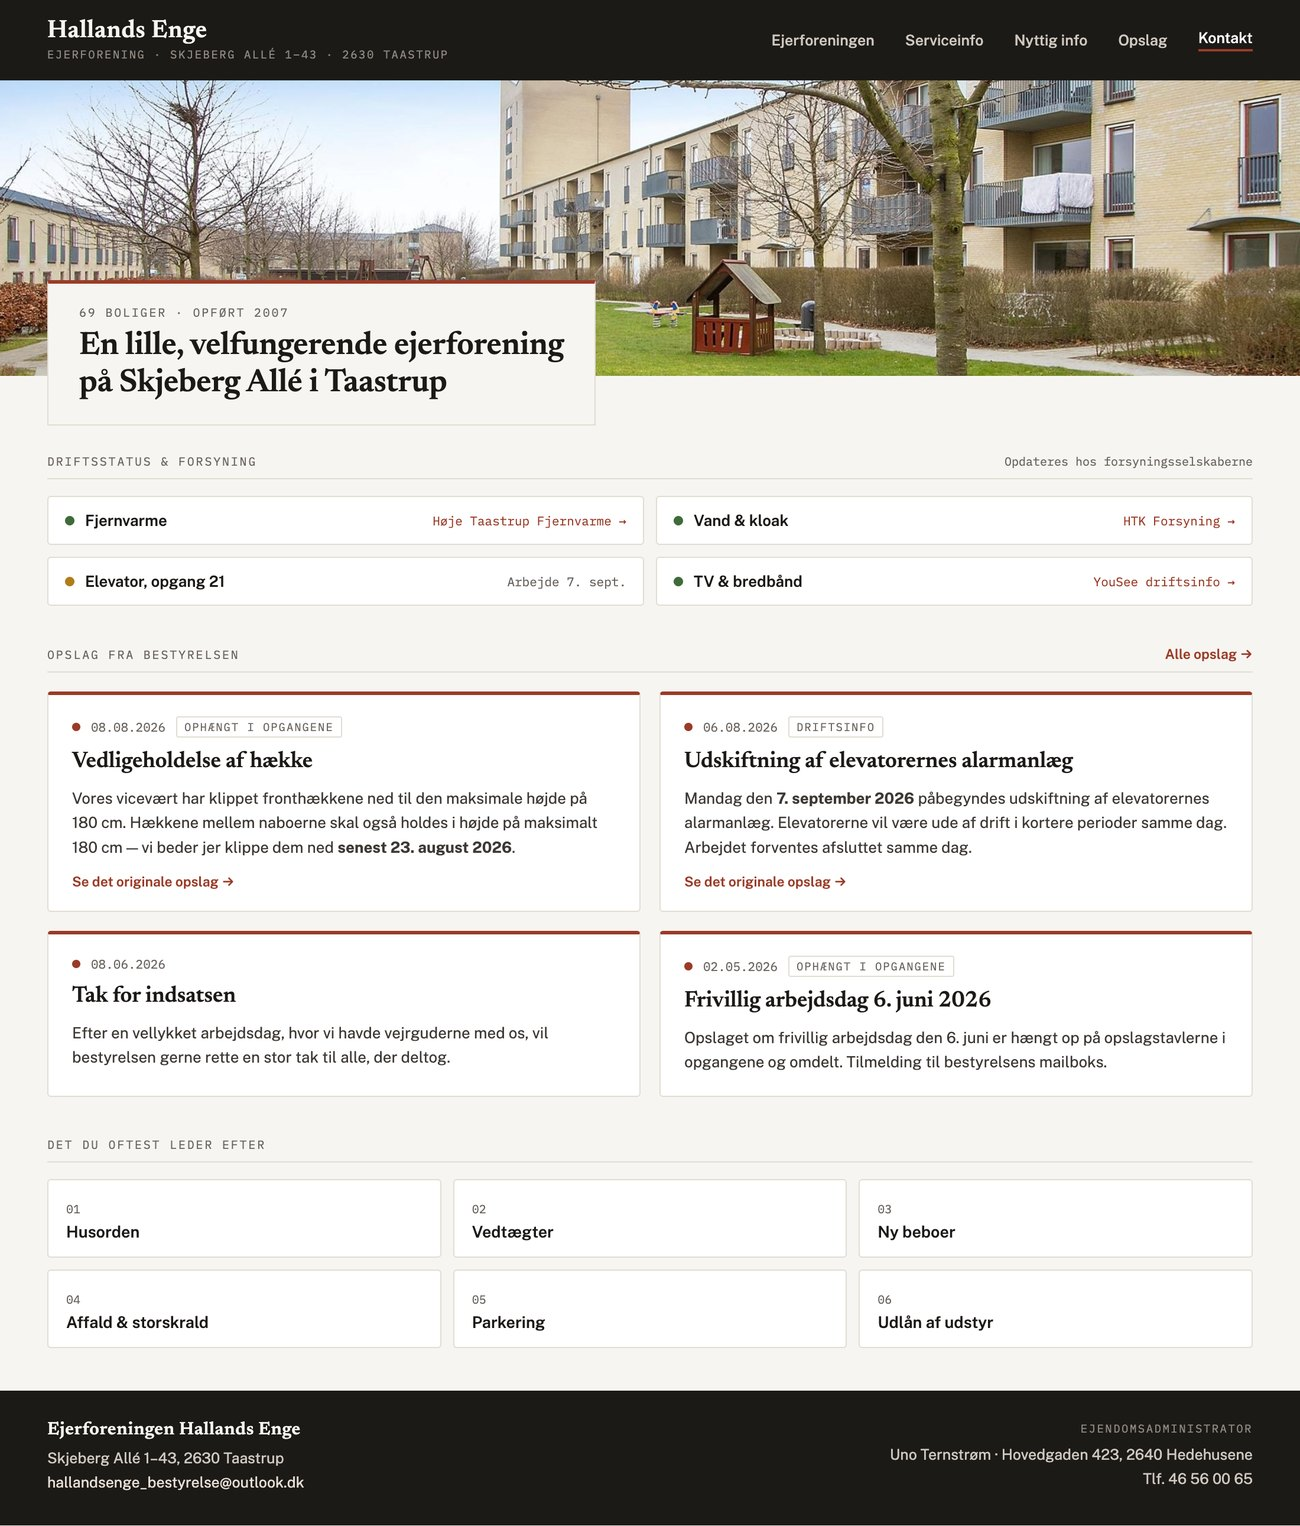
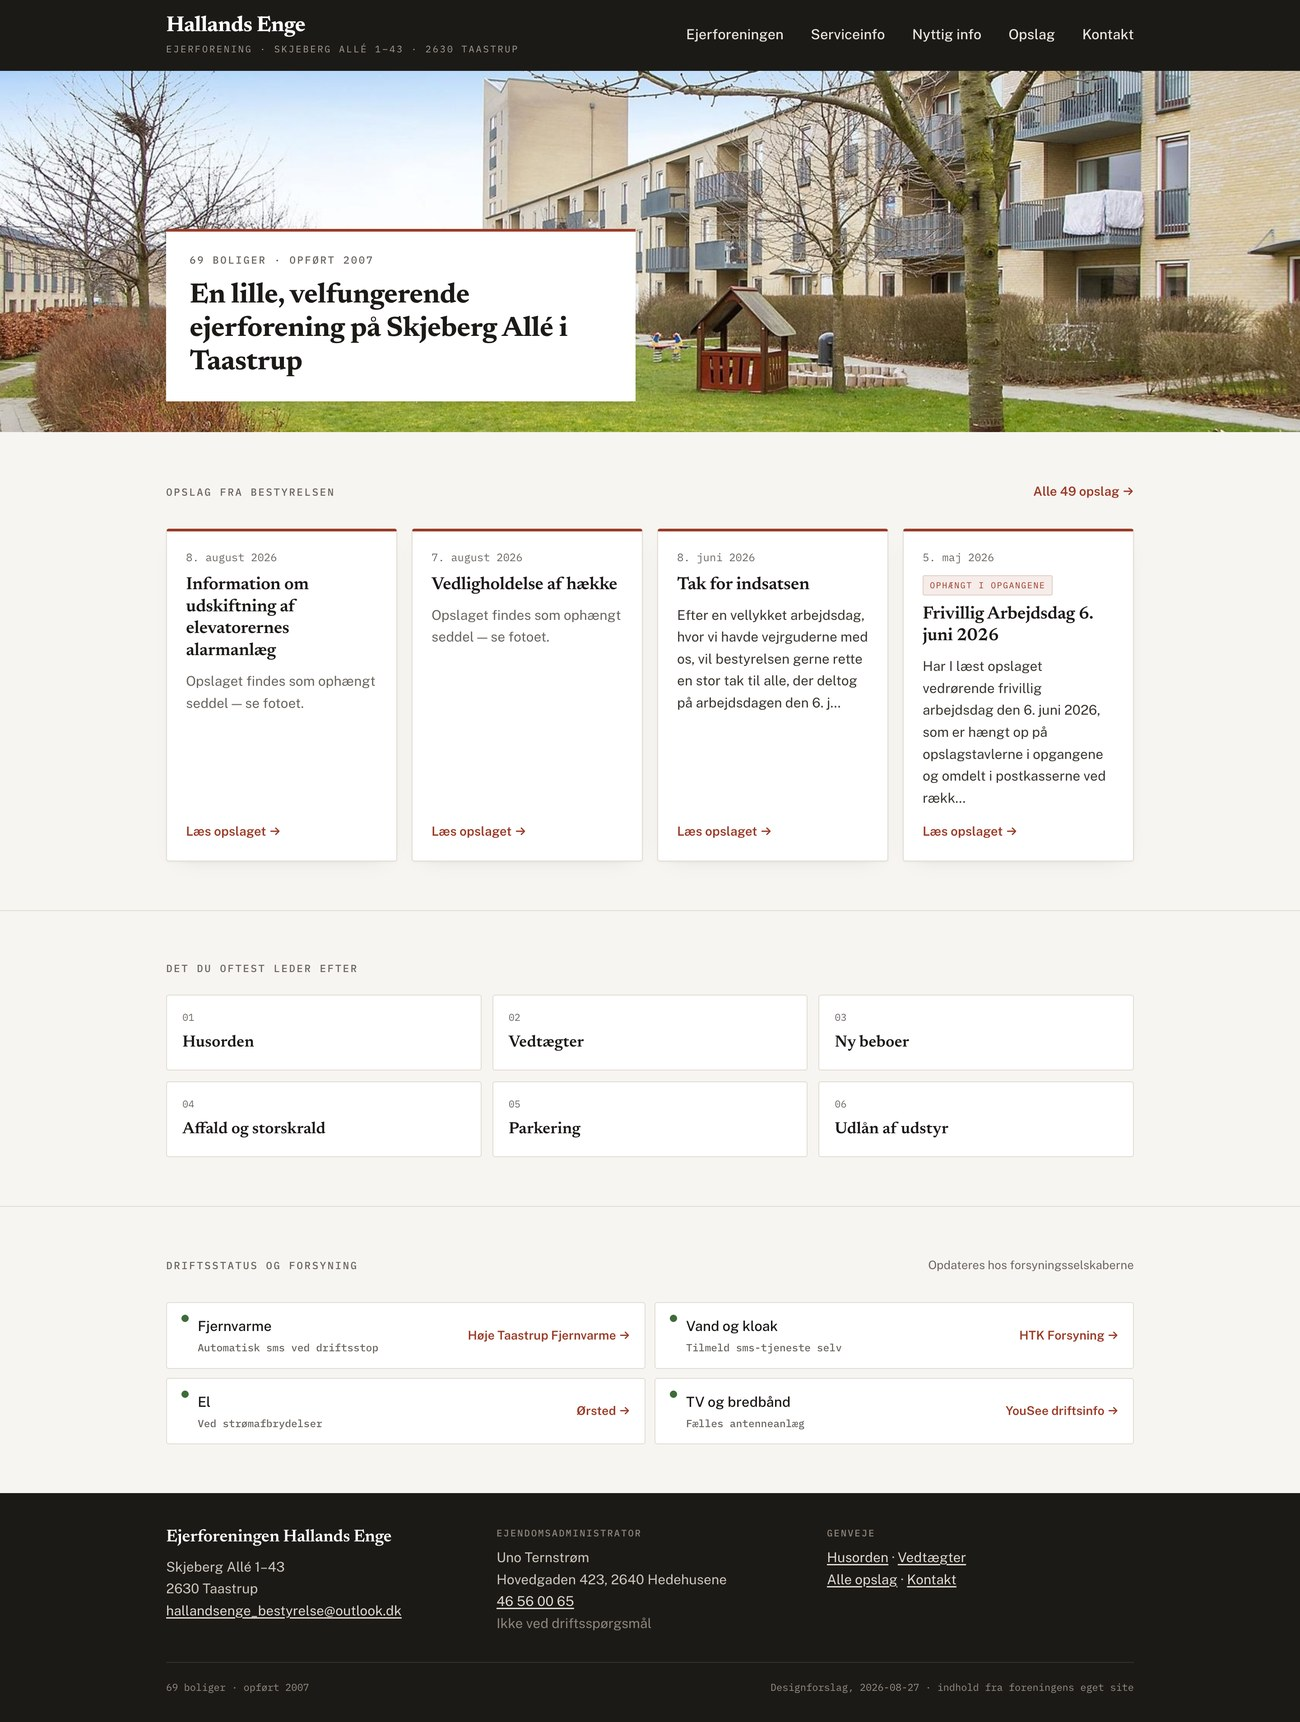
Hallands Enge: drop the price, show what is actually built
The association is my own, so the work is free. Removes the 10.000 kr.
and the cold-outreach sign-off from the case page.

Replaces the six after-* images. They came from the Claude Design canvas
and no longer matched the built site: the supply strip moved to the bottom
of the front page, and the contact form became a mailbox card.

Captured from the built redesign at 1440x900 desktop and a real iPhone 13
profile, full page, resized to the existing 1300px / 720px convention.

Claude-Session: https://claude.ai/code/session_01NASWkHnFqBSAbJMZ6hc1vs

diff --git a/p/hallands-enge-859b3613-a431-49eb-845d-2f224ed24e89/index.html b/p/hallands-enge-859b3613-a431-49eb-845d-2f224ed24e89/index.html
@@ -229,7 +229,7 @@ title: "Hallands Enge: sådan kunne foreningens hjemmeside se ud"
           <li><strong>Testadresse.</strong> Jeg bygger det færdige site på en lukket adresse, hvor I kan se det og bede om rettelser. Jeres nuværende side kører uberørt videre imens.</li>
           <li><strong>Live.</strong> Når I siger god for det, skifter vi over. Samme domæne, samme mailadresse.</li>
         </ol>
-        <p>10.000 kr. og 14 dage, fra jeg har adgang og materialet. Det er hele sitet, ikke kun de tre sider her, og én runde rettelser. Kan I ikke bruge det, koster det ingenting: skriv bare nej tak.</p>
+        <p>Det koster ikke noget. Det er min egen forening, så jeg laver det gratis. Regn med 14 dage, fra jeg har adgang og materialet. Det er hele sitet, ikke kun de tre sider her, og én runde rettelser. Vil I hellere lade være, er det også helt fint: skriv bare nej tak.</p>
         <p class="contact-signature">Mathias Grundtvig · +45 42 91 58 99 · mathias@nyfacade.dk</p>
       </div>
       <div class="contact-form-box" style="display:flex;flex-direction:column;justify-content:center;gap:14px">
